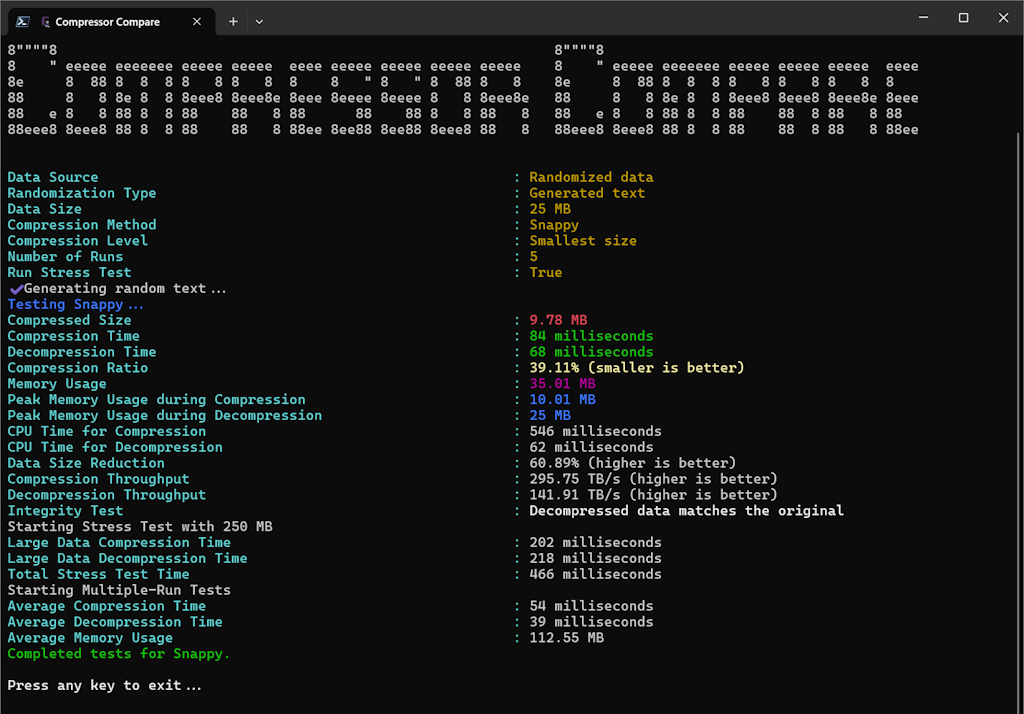
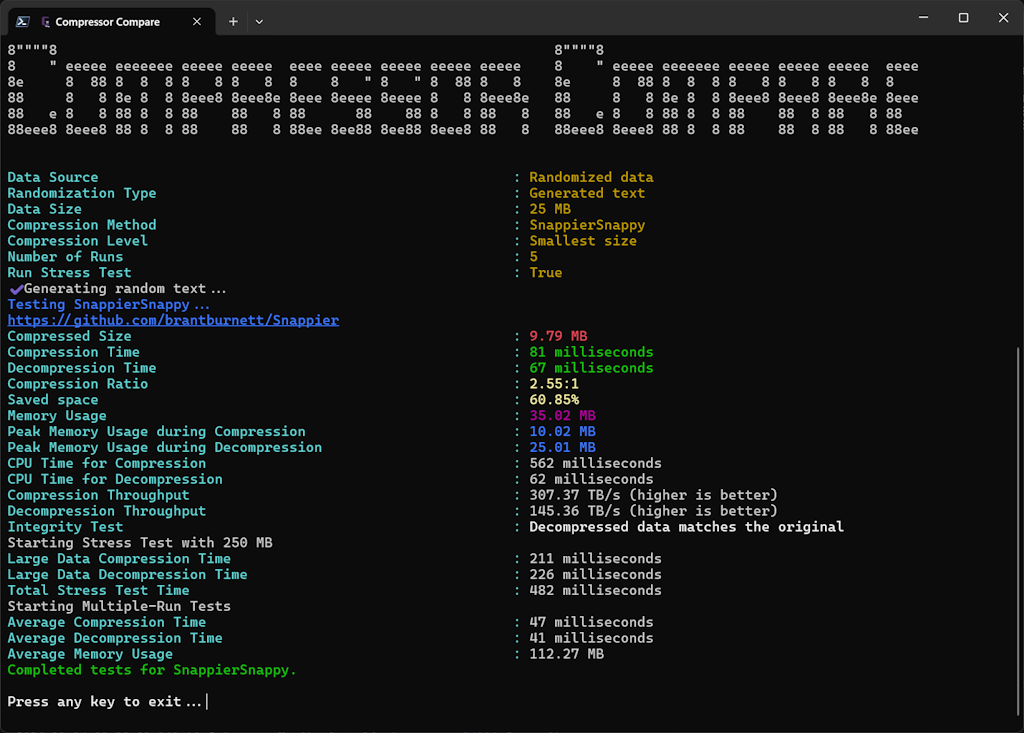
update `README.md`

diff --git a/README.md b/README.md
@@ -36,15 +36,16 @@ Usage:
   abremir.CompressorCompare random [options]
 
 Options:
-  -s, --size <size>                                       Size of random dataset in MB (> 0) [default: 10]
-  -r, --randomization-type                                Randomization type for the random data [default:
-  <GeneratedText|HighCompressibility|LowCompressibility>  LowCompressibility]
-  -c, --compression-level <Fastest|Optimal|SmallestSize>  Compression level to be used [default: SmallestSize]
-  -n, --number-of-runs <number-of-runs>                   Number of runs for multiple-run tests (>= 0) [default: 5]
-  -m, --compression-method                                Compression method to be used [default: All]
-  <All|Brotli|Deflate|GZip|LZ4|Snappy|ZLib|ZStd>
-  -t, --stress-test                                       Run stress test
-  -?, -h, --help                                          Show help and usage information
+  -s, --size <size>                                           Size of random dataset in MB (> 0) [default: 10]
+  -r, --randomization-type                                    Randomization type for the random data [default:
+  <GeneratedText|HighCompressibility|LowCompressibility>      LowCompressibility]
+  -c, --compression-level <Fastest|Optimal|SmallestSize>      Compression level to be used [default: SmallestSize]
+  -n, --number-of-runs <number-of-runs>                       Number of runs for multiple-run tests (>= 0) [default: 5]
+  -m, --compression-method                                    Compression method to be used [default: All]
+  <All|K4osLZ4|SnappierSnappy|SystemBrotli|SystemDeflate|Sys
+  temGZip|SystemZLib|SystemZStandard|ZStdSharp>
+  -t, --stress-test                                           Run stress test [default: true]
+  -?, -h, --help                                              Show help and usage information
 ```
 
 ```text
@@ -58,12 +59,13 @@ Arguments:
   <file-path>  Path to the file to use
 
 Options:
-  -c, --compression-level <Fastest|Optimal|SmallestSize>  Compression level to be used [default: SmallestSize]
-  -n, --number-of-runs <number-of-runs>                   Number of runs for multiple-run tests (>= 0) [default: 5]
-  -m, --compression-method                                Compression method to be used [default: All]
-  <All|Brotli|Deflate|GZip|LZ4|Snappy|ZLib|ZStd>
-  -t, --stress-test                                       Run stress test
-  -?, -h, --help                                          Show help and usage information
+  -c, --compression-level <Fastest|Optimal|SmallestSize>      Compression level to be used [default: SmallestSize]
+  -n, --number-of-runs <number-of-runs>                       Number of runs for multiple-run tests (>= 0) [default: 5]
+  -m, --compression-method                                    Compression method to be used [default: All]
+  <All|K4osLZ4|SnappierSnappy|SystemBrotli|SystemDeflate|Sys
+  temGZip|SystemZLib|SystemZStandard|ZStdSharp>
+  -t, --stress-test                                           Run stress test [default: true]
+  -?, -h, --help                                              Show help and usage information
 ```
 
 ## Example
@@ -71,7 +73,7 @@ Options:
 The screenshot above was captured after running the below command:
 
 ```pwsh
-> .\abremir.CompressorCompare.exe random -s 25 -r GeneratedText -m Snappy
+> .\abremir.CompressorCompare.exe random -s 25 -r GeneratedText -m SnappierSnappy
 ```
 
 For file-based compression tests, you can find a large number of compression test datasets in [amkillam]'s [Compression Test Data](https://github.com/amkillam/compression-test-data).
